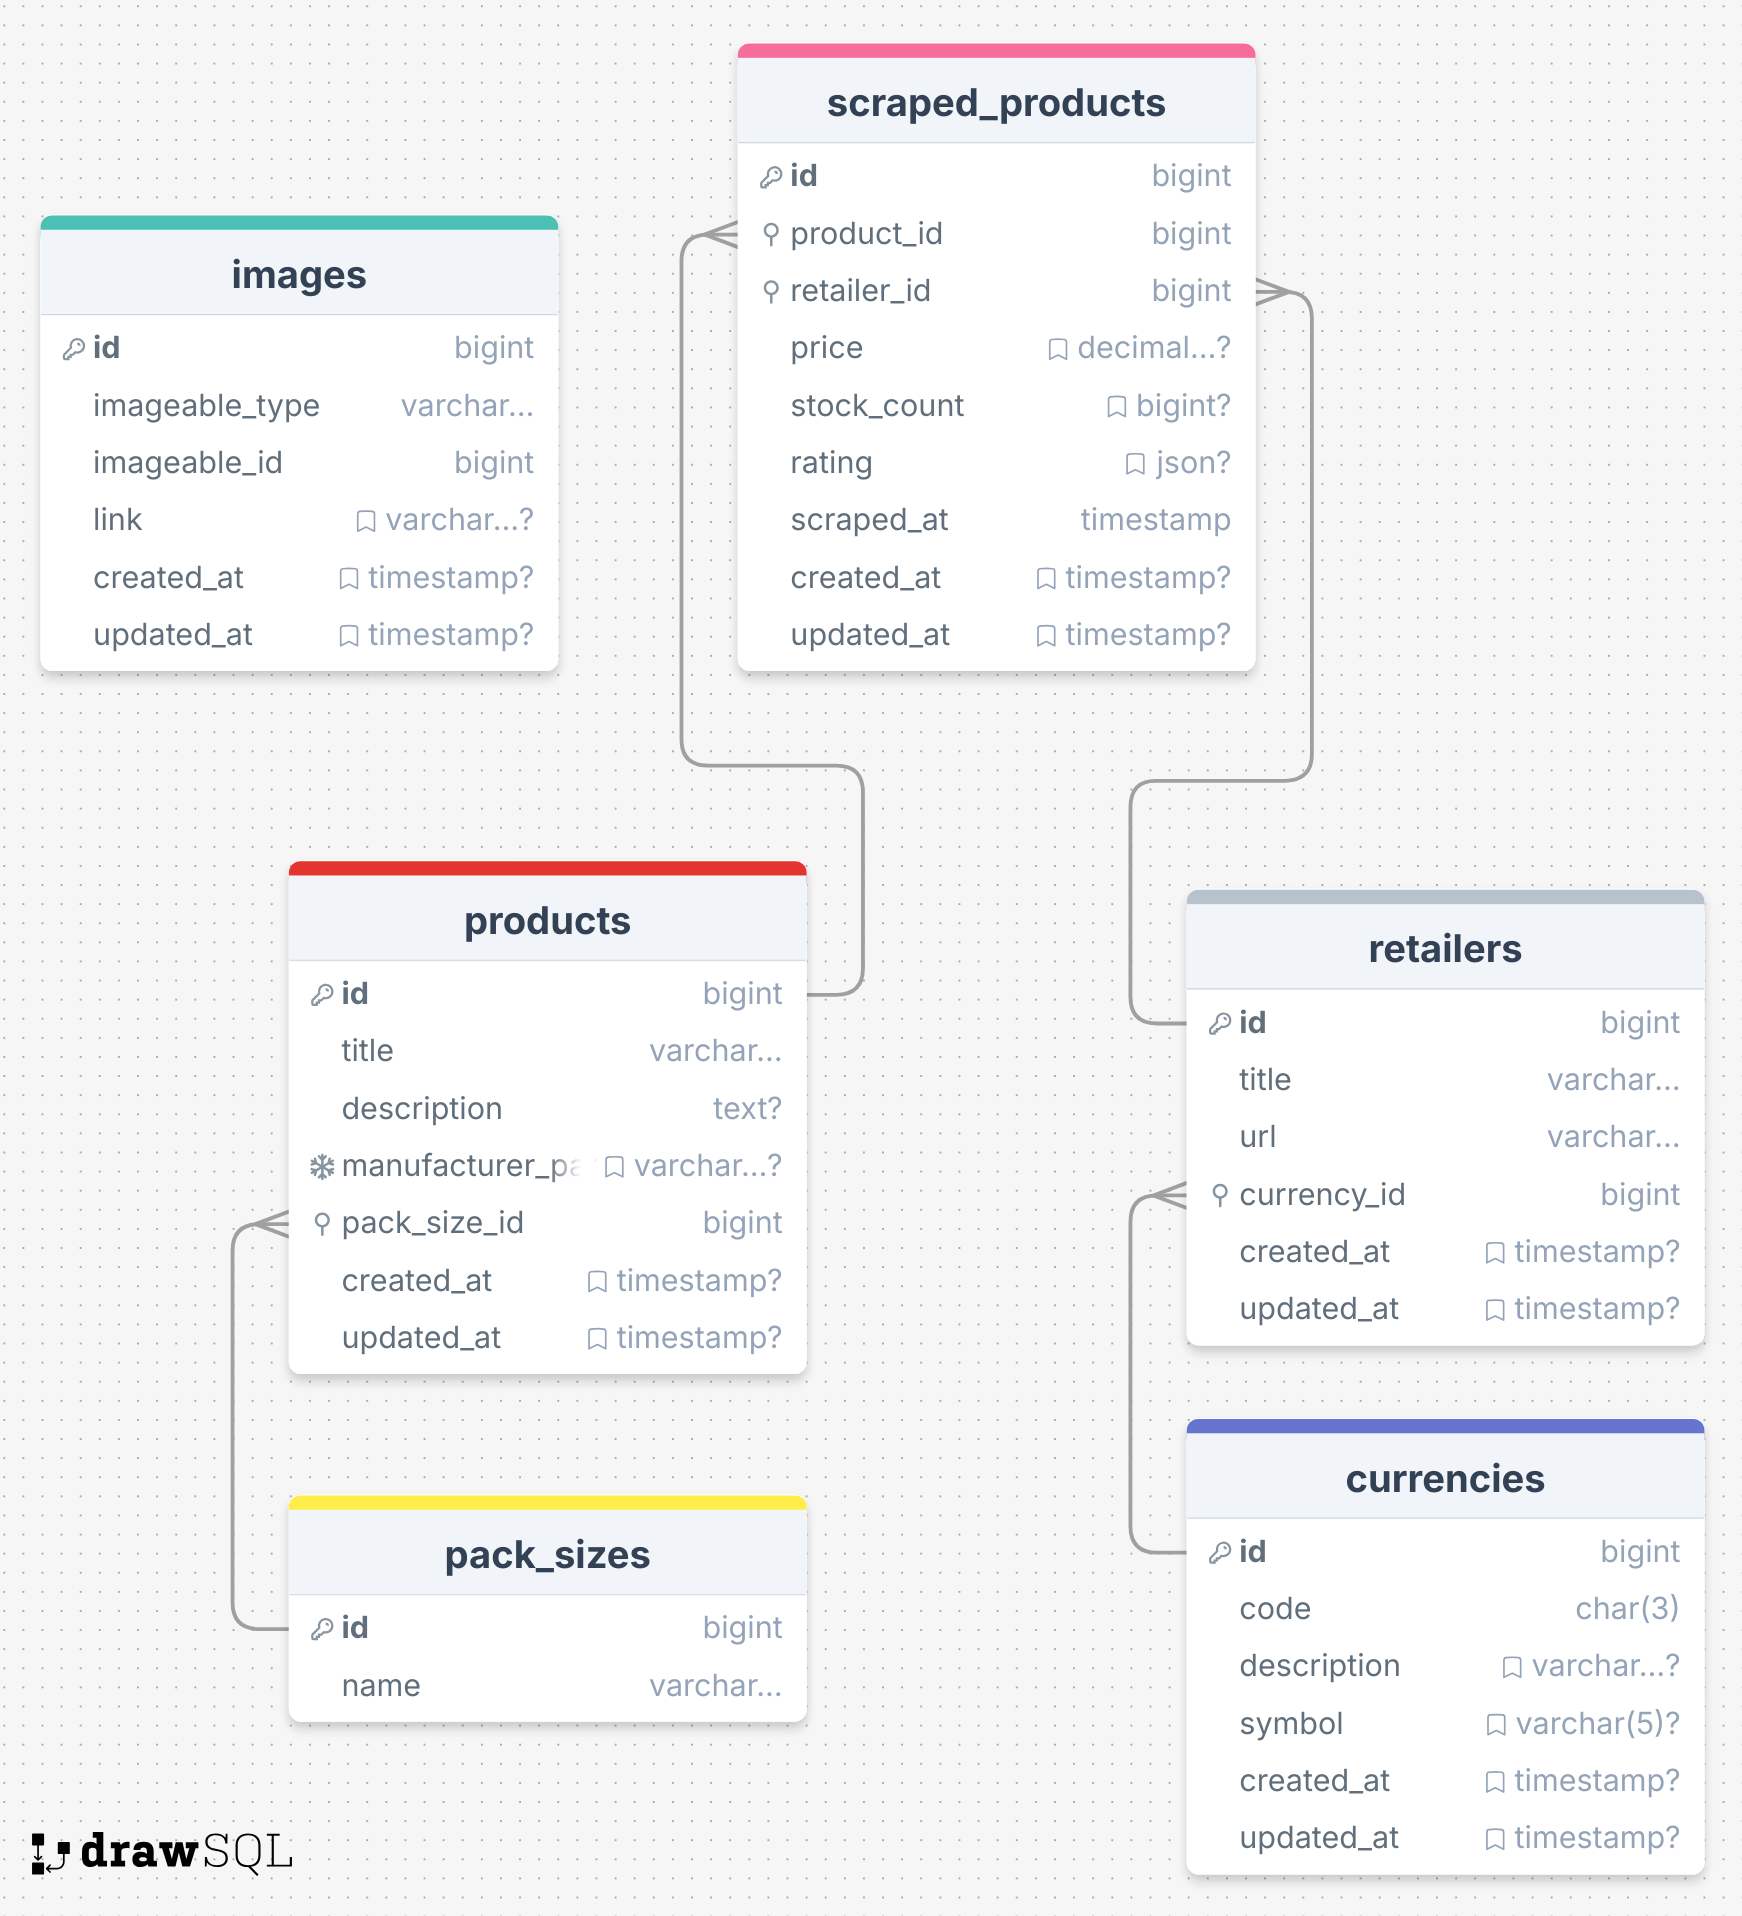
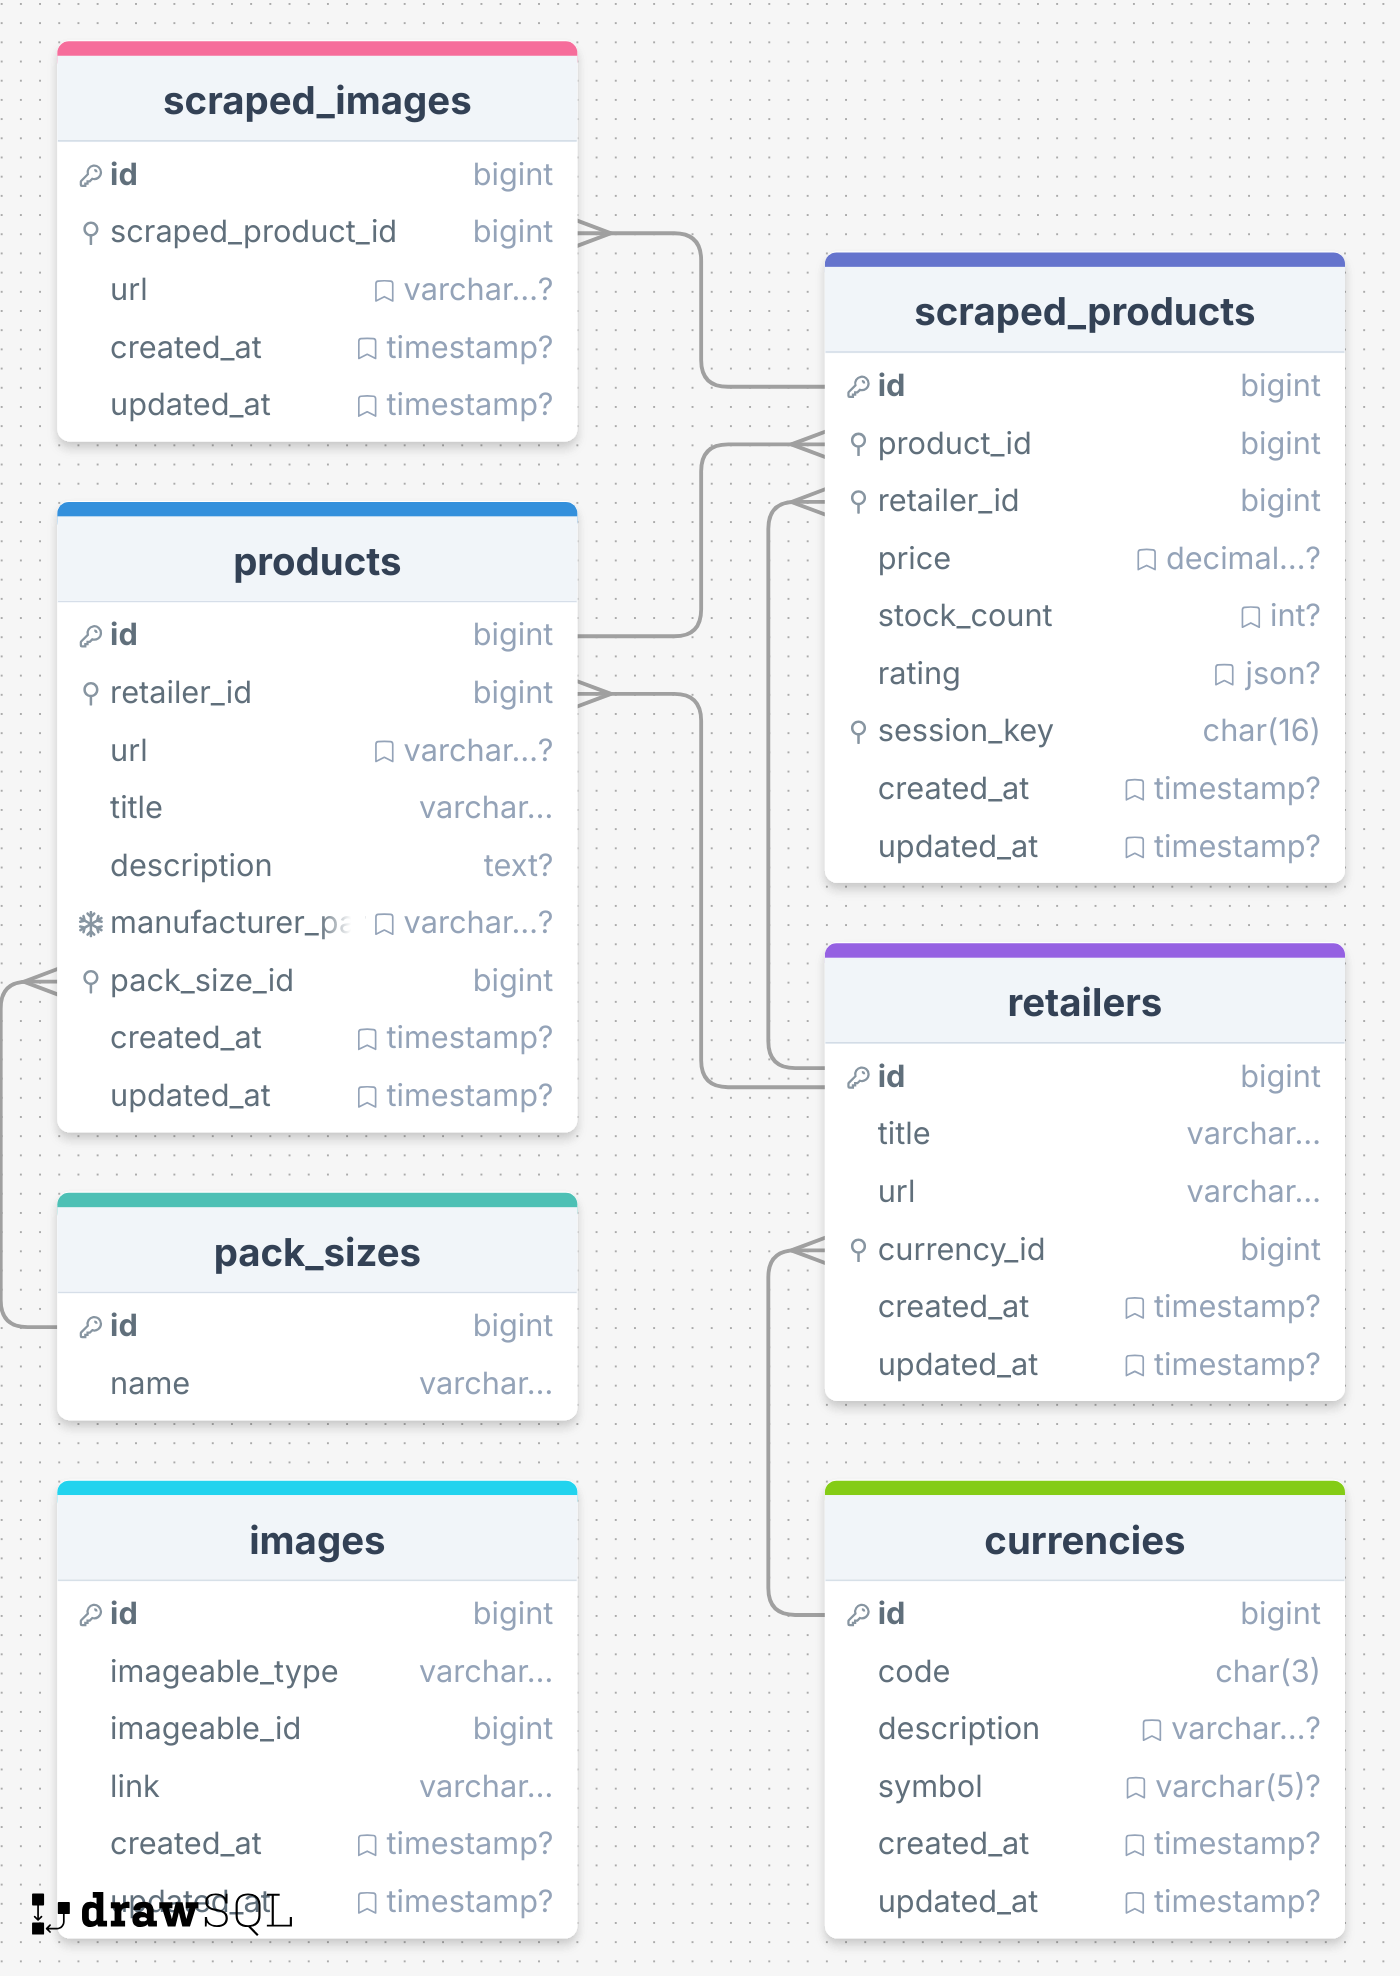
fix: change database structure and code for seeding

diff --git a/database/seeders/ScrapedProductSeeder.php b/database/seeders/ScrapedProductSeeder.php
@@ -4,41 +4,61 @@ namespace Database\Seeders;
 
 use App\Models\Product;
 use App\Models\Retailer;
+use App\Models\ScrapedImage;
 use App\Models\ScrapedProduct;
-use Carbon\Carbon;
 use Faker\Factory as Faker;
 use Illuminate\Database\Seeder;
+use Illuminate\Support\Str;
 
 class ScrapedProductSeeder extends Seeder
 {
     public function run(): void
     {
-        ScrapedProduct::query()->truncate();
-
         $faker = Faker::create();
-        $products = Product::query()->pluck('id');
         $retailers = Retailer::query()->pluck('id');
-        for ($i = 0; $i < count($products) * count($retailers); $i++) {
-            $scrapedProducts[] = [
-                'product_id' => $products->random(),
-                'retailer_id' => $retailers->random(),
-                'price' => $faker->randomFloat(2),
-                'stock_count' => $faker->randomNumber(),
-                'rating' => json_encode([
-                    1 => $faker->randomNumber(),
-                    2 => $faker->randomNumber(),
-                    3 => $faker->randomNumber(),
-                    4 => $faker->randomNumber(),
-                    5 => $faker->randomNumber(),
-                ]),
-                'scraped_at' => Carbon::instance($faker->dateTimeBetween('-1 year'))->toDateTimeString(),
+        $products = Product::query()->get()->groupBy('retailer_id')->map->pluck('id');
+        $scrapedProducts = [];
+
+        for ($i = 0; $i < 365; $i++) {
+            foreach ($retailers as $retailer) {
+                $sessionKey = Str::random();
+                foreach ($products[$retailer] as $product) {
+                    $scrapedProducts[] = [
+                        'product_id' => $product,
+                        'retailer_id' => $retailer,
+                        'price' => $faker->randomFloat(2, 0, 1000000),
+                        'stock_count' => $faker->numberBetween(0, 100000),
+                        'rating' => json_encode([
+                            1 => $faker->numberBetween(0, 100000),
+                            2 => $faker->numberBetween(0, 100000),
+                            3 => $faker->numberBetween(0, 100000),
+                            4 => $faker->numberBetween(0, 100000),
+                            5 => $faker->numberBetween(0, 100000),
+                        ]),
+                        'session_key' => $sessionKey,
+                        'updated_at' => now(),
+                        'created_at' => now(),
+                    ];
+                }
+            }
+
+            ScrapedProduct::query()->insert($scrapedProducts);
+            $scrapedProducts = [];
+        }
+
+        $scrapedProducts = ScrapedProduct::query()->pluck('id');
+        $scrapedImages = [];
+        for ($i = 0; $i < count($scrapedProducts); $i++) {
+            $scrapedImages[] = [
+                'scraped_product_id' => $scrapedProducts->random(),
+                'url' => $faker->url(),
                 'updated_at' => now(),
                 'created_at' => now(),
             ];
         }
 
-        foreach (array_chunk($scrapedProducts, 1000) as $chunk) {
-            ScrapedProduct::query()->insert($chunk);
+        foreach (array_chunk($scrapedImages, 1000) as $chunk) {
+            ScrapedImage::query()->insert($chunk);
         }
     }
 }

diff --git a/database/seeders/ProductSeeder.php b/database/seeders/ProductSeeder.php
@@ -2,25 +2,25 @@
 
 namespace Database\Seeders;
 
+use App\Models\Image;
 use App\Models\PackSize;
 use App\Models\Product;
+use App\Models\Retailer;
 use Faker\Factory as Faker;
 use Illuminate\Database\Seeder;
-use Illuminate\Support\Facades\DB;
 
 class ProductSeeder extends Seeder
 {
     public function run(): void
     {
-        DB::statement('SET FOREIGN_KEY_CHECKS=0');
-        Product::query()->truncate();
-        DB::statement('SET FOREIGN_KEY_CHECKS=1');
-
         $faker = Faker::create();
         $packSizes = PackSize::query()->pluck('id');
+        $retailers = Retailer::query()->pluck('id');
         for ($i = 0; $i < 1000; $i++) {
             $products[] = [
-                'title' => $faker->unique()->words(asText: true),
+                'retailer_id' => $retailers->random(),
+                'url' => $faker->url(),
+                'title' => $faker->words(asText: true),
                 'description' => $faker->text(),
                 'manufacturer_part_number' => $faker->unique()->numerify('###############'),
                 'pack_size_id' => $packSizes->random(),
@@ -28,7 +28,19 @@ class ProductSeeder extends Seeder
                 'created_at' => now(),
             ];
         }
-
         Product::query()->insert($products);
+
+        $products = Product::query()->pluck('id');
+        $images = [];
+        for ($i = 0; $i < count($products); $i++) {
+            $images[] = [
+                'imageable_id' => $faker->unique()->randomElement($products),
+                'imageable_type' => Product::class,
+                'link' => $faker->url(),
+                'updated_at' => now(),
+                'created_at' => now(),
+            ];
+        }
+        Image::query()->insert($images);
     }
 }

diff --git a/database/seeders/DatabaseSeeder.php b/database/seeders/DatabaseSeeder.php
@@ -2,7 +2,15 @@
 
 namespace Database\Seeders;
 
+use App\Models\Currency;
+use App\Models\Image;
+use App\Models\PackSize;
+use App\Models\Product;
+use App\Models\Retailer;
+use App\Models\ScrapedImage;
+use App\Models\ScrapedProduct;
 use Illuminate\Database\Seeder;
+use Illuminate\Support\Facades\DB;
 
 class DatabaseSeeder extends Seeder
 {
@@ -11,13 +19,30 @@ class DatabaseSeeder extends Seeder
      */
     public function run(): void
     {
+//        DB::statement('SET FOREIGN_KEY_CHECKS=0');
+//        ScrapedImage::query()->truncate();
+//        Image::query()->truncate();
+//        ScrapedProduct::query()->truncate();
+//        Product::query()->truncate();
+//        Retailer::query()->truncate();
+//        PackSize::query()->truncate();
+//        Currency::query()->truncate();
+//        DB::statement('SET FOREIGN_KEY_CHECKS=1');
+
+//        ScrapedImage::query()->delete();
+//        Image::query()->delete();
+//        ScrapedProduct::query()->delete();
+//        Product::query()->delete();
+//        Retailer::query()->delete();
+//        PackSize::query()->delete();
+//        Currency::query()->delete();
+
         $this->call([
             PackSizeSeeder::class,
-            ProductSeeder::class,
             CurrencySeeder::class,
             RetailerSeeder::class,
+            ProductSeeder::class,
             ScrapedProductSeeder::class,
-            ImageSeeder::class,
         ]);
     }
 }

diff --git a/database/seeders/RetailerSeeder.php b/database/seeders/RetailerSeeder.php
@@ -3,31 +3,29 @@
 namespace Database\Seeders;
 
 use App\Models\Currency;
+use App\Models\Image;
 use App\Models\Retailer;
 use Faker\Factory as Faker;
 use Illuminate\Database\Seeder;
-use Illuminate\Support\Facades\DB;
 
 class RetailerSeeder extends Seeder
 {
     public function run(): void
     {
-        DB::statement('SET FOREIGN_KEY_CHECKS=0');
-        Retailer::query()->truncate();
-        DB::statement('SET FOREIGN_KEY_CHECKS=1');
-
         $faker = Faker::create();
         $currencies = Currency::query()->pluck('id');
         for ($i = 0; $i < 10; $i++) {
-            $retailers[] = [
+            $retailer = Retailer::query()->create([
                 'title' => $faker->unique()->words(asText: true),
-                'url' => $faker->unique()->url(),
+                'url' => $faker->url(),
                 'currency_id' => $currencies->random(),
-                'updated_at' => now(),
-                'created_at' => now(),
-            ];
-        }
+            ]);
 
-        Retailer::query()->insert($retailers);
+            Image::query()->create([
+                'imageable_id' => $retailer->id,
+                'imageable_type' => Retailer::class,
+                'link' => $faker->url(),
+            ]);
+        }
     }
 }

diff --git a/database/migrations/2025_03_14_172458_create_products_table.php b/database/migrations/2025_03_14_172458_create_products_table.php
@@ -1,0 +1,32 @@
+<?php
+
+use Illuminate\Database\Migrations\Migration;
+use Illuminate\Database\Schema\Blueprint;
+use Illuminate\Support\Facades\Schema;
+
+return new class extends Migration {
+    /**
+     * Run the migrations.
+     */
+    public function up(): void
+    {
+        Schema::create('products', function (Blueprint $table) {
+            $table->id();
+            $table->foreignId('retailer_id')->constrained();
+            $table->string('url', 1000)->nullable();
+            $table->string('title');
+            $table->text('description')->nullable();
+            $table->string('manufacturer_part_number')->nullable()->unique();
+            $table->foreignId('pack_size_id')->constrained();
+            $table->timestamps();
+        });
+    }
+
+    /**
+     * Reverse the migrations.
+     */
+    public function down(): void
+    {
+        Schema::dropIfExists('products');
+    }
+};

diff --git a/database/migrations/2025_03_14_172703_create_scraped_images_table.php b/database/migrations/2025_03_14_172703_create_scraped_images_table.php
@@ -10,12 +10,10 @@ return new class extends Migration {
      */
     public function up(): void
     {
-        Schema::create('products', function (Blueprint $table) {
+        Schema::create('scraped_images', function (Blueprint $table) {
             $table->id();
-            $table->string('title');
-            $table->text('description')->nullable();
-            $table->string('manufacturer_part_number')->nullable()->unique();
-            $table->foreignId('pack_size_id')->constrained();
+            $table->foreignId('scraped_product_id')->constrained();
+            $table->string('url', 1000)->nullable();
             $table->timestamps();
         });
     }
@@ -25,6 +23,6 @@ return new class extends Migration {
      */
     public function down(): void
     {
-        Schema::dropIfExists('products');
+        Schema::dropIfExists('scraped_images');
     }
 };

diff --git a/database/seeders/PackSizeSeeder.php b/database/seeders/PackSizeSeeder.php
@@ -4,16 +4,11 @@ namespace Database\Seeders;
 
 use App\Models\PackSize;
 use Illuminate\Database\Seeder;
-use Illuminate\Support\Facades\DB;
 
 class PackSizeSeeder extends Seeder
 {
     public function run(): void
     {
-        DB::statement('SET FOREIGN_KEY_CHECKS=0');
-        PackSize::query()->truncate();
-        DB::statement('SET FOREIGN_KEY_CHECKS=1');
-
         $packSizes = [
             ['name' => 'case'],
             ['name' => 'each'],
@@ -24,7 +19,7 @@ class PackSizeSeeder extends Seeder
         ];
 
         foreach ($packSizes as $packSize) {
-            PackSize::query()->create($packSize);
+            PackSize::query()->insert($packSize);
         }
     }
 }

diff --git a/database/migrations/2025_03_14_172618_create_scraped_products_table.php b/database/migrations/2025_03_14_172618_create_scraped_products_table.php
@@ -15,9 +15,9 @@ return new class extends Migration {
             $table->foreignId('product_id')->constrained();
             $table->foreignId('retailer_id')->constrained();
             $table->decimal('price', 14)->nullable();
-            $table->unsignedBigInteger('stock_count')->nullable();
+            $table->unsignedInteger('stock_count')->nullable();
             $table->json('rating')->nullable();
-            $table->timestamp('scraped_at');
+            $table->char('session_key', 16)->index();
             $table->timestamps();
         });
     }

diff --git a/database/seeders/CurrencySeeder.php b/database/seeders/CurrencySeeder.php
@@ -4,16 +4,11 @@ namespace Database\Seeders;
 
 use App\Models\Currency;
 use Illuminate\Database\Seeder;
-use Illuminate\Support\Facades\DB;
 
 class CurrencySeeder extends Seeder
 {
     public function run(): void
     {
-        DB::statement('SET FOREIGN_KEY_CHECKS=0');
-        Currency::query()->truncate();
-        DB::statement('SET FOREIGN_KEY_CHECKS=1');
-
         $currencies = [
             ['code' => 'USD', 'description' => 'American dollar', 'symbol' => '$'],
             ['code' => 'EUR', 'description' => 'Euro', 'symbol' => '€'],

diff --git a/database/migrations/2025_03_12_132559_create_images_table.php b/database/migrations/2025_03_12_132559_create_images_table.php
@@ -13,7 +13,7 @@ return new class extends Migration {
         Schema::create('images', function (Blueprint $table) {
             $table->id();
             $table->morphs('imageable');
-            $table->string('link', 500)->nullable();
+            $table->string('link', 1000);
             $table->timestamps();
         });
     }

diff --git a/app/Models/Product.php b/app/Models/Product.php
@@ -7,6 +7,8 @@ use Illuminate\Database\Eloquent\Model;
 class Product extends Model
 {
     protected $fillable = [
+        'retailer_id',
+        'url',
         'title',
         'description',
         'manufacturer_part_number',

diff --git a/app/Models/ScrapedImage.php b/app/Models/ScrapedImage.php
@@ -1,0 +1,13 @@
+<?php
+
+namespace App\Models;
+
+use Illuminate\Database\Eloquent\Model;
+
+class ScrapedImage extends Model
+{
+    protected $fillable = [
+        'scraped_product_id',
+        'url',
+    ];
+}
